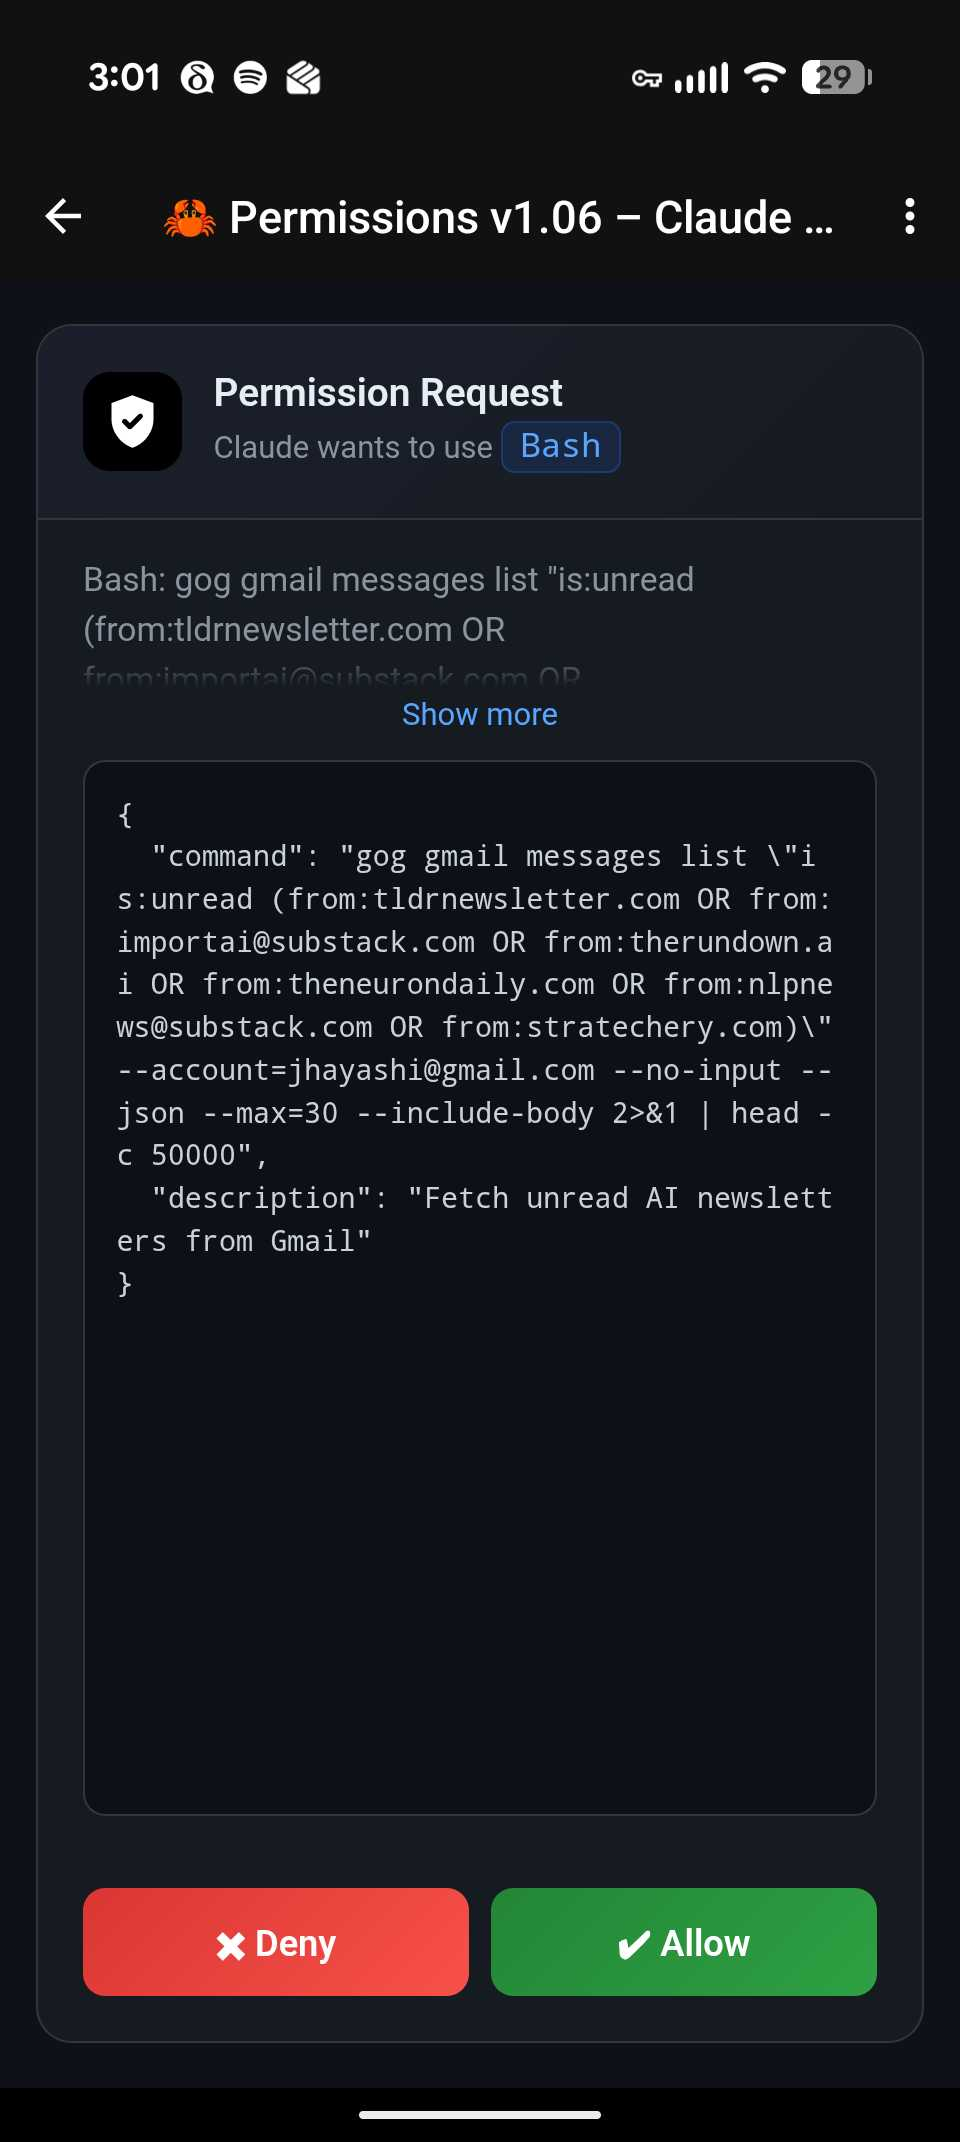
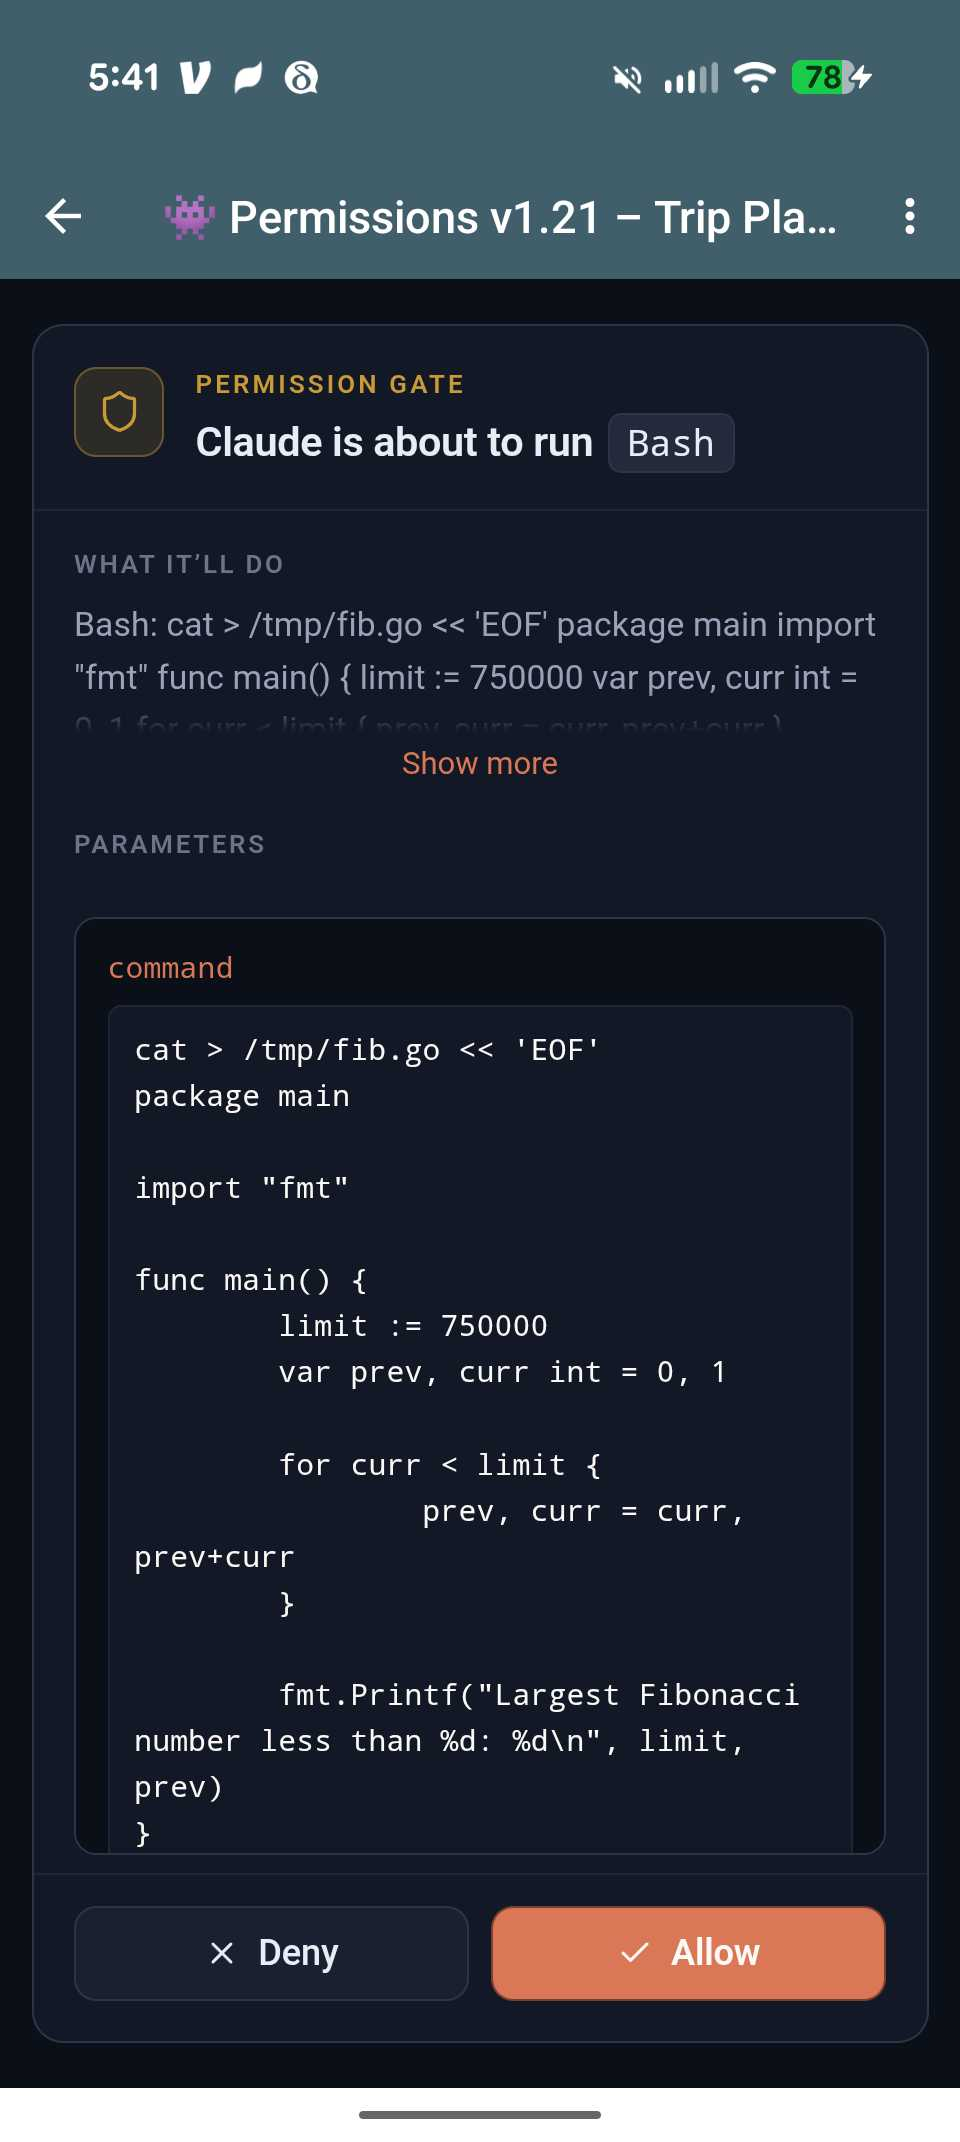
docs(readme): refresh Screenshots section with 8-image tour
Swap in fresh screenshots covering chat list, permission prompt, file
reviewer (reading + commenting), agent-setup home, agent picker, and
the resume-terminal-session flow. Drop unused agent-setup.jpg and
file-reviewer.jpg.

diff --git a/README.md b/README.md
@@ -37,23 +37,45 @@ Delta Chat's strong privacy and support for chat-native applications make it a g
 <p align="center">
   <img src="screenshots/chat-list.jpg" width="250" alt="Chat list with agent chats">
   &nbsp;&nbsp;
-  <img src="screenshots/agent-setup.jpg" width="250" alt="Agent setup card">
+  <img src="screenshots/permission-prompt.jpg" width="250" alt="Permission prompt">
 </p>
 <p align="center">
-  <em>Multiple agents, isoldated chats</em>
-  &nbsp;&nbsp;&nbsp;&nbsp;&nbsp;&nbsp;&nbsp;&nbsp;
-  <em>Agent setup in a WebXDC app</em>
+  <em>One chat per agent, each with its own identity</em>
+  &nbsp;&nbsp;&nbsp;&nbsp;
+  <em>Tap to allow or deny tool runs</em>
 </p>
 
 <p align="center">
-  <img src="screenshots/permission-prompt.jpg" width="250" alt="Permission prompt">
+  <img src="screenshots/file-reviewer-reading.jpg" width="250" alt="File reviewer">
   &nbsp;&nbsp;
-  <img src="screenshots/file-reviewer.jpg" width="250" alt="File reviewer">
+  <img src="screenshots/file-reviewer-comment.jpg" width="250" alt="File reviewer with comment composer">
 </p>
 <p align="center">
-  <em>Optional permissions GUI</em>
-  &nbsp;&nbsp;&nbsp;&nbsp;&nbsp;&nbsp;&nbsp;&nbsp;&nbsp;&nbsp;&nbsp;&nbsp;&nbsp;&nbsp;
-  <em>Review and comment on code from your phone</em>
+  <em>Rendered markdown and source, on your phone</em>
+  &nbsp;&nbsp;&nbsp;&nbsp;
+  <em>Long-press any line or paragraph to comment</em>
+</p>
+
+<p align="center">
+  <img src="screenshots/agent-setup-home.jpg" width="250" alt="Agent setup home">
+  &nbsp;&nbsp;
+  <img src="screenshots/agent-setup-agent-picker.jpg" width="250" alt="Agent picker with templates">
+</p>
+<p align="center">
+  <em>Agent setup hub — start, manage, or resume</em>
+  &nbsp;&nbsp;&nbsp;&nbsp;
+  <em>Pick a template or reuse a saved agent</em>
+</p>
+
+<p align="center">
+  <img src="screenshots/agent-setup-resume-loading.jpg" width="250" alt="Resume terminal session, scanning">
+  &nbsp;&nbsp;
+  <img src="screenshots/agent-setup-resume-list.jpg" width="250" alt="Resume terminal session picker">
+</p>
+<p align="center">
+  <em>Scans recent Claude sessions on your machine</em>
+  &nbsp;&nbsp;&nbsp;&nbsp;
+  <em>Pick one to continue in a new DC chat</em>
 </p>
 
 ## Prerequisites
